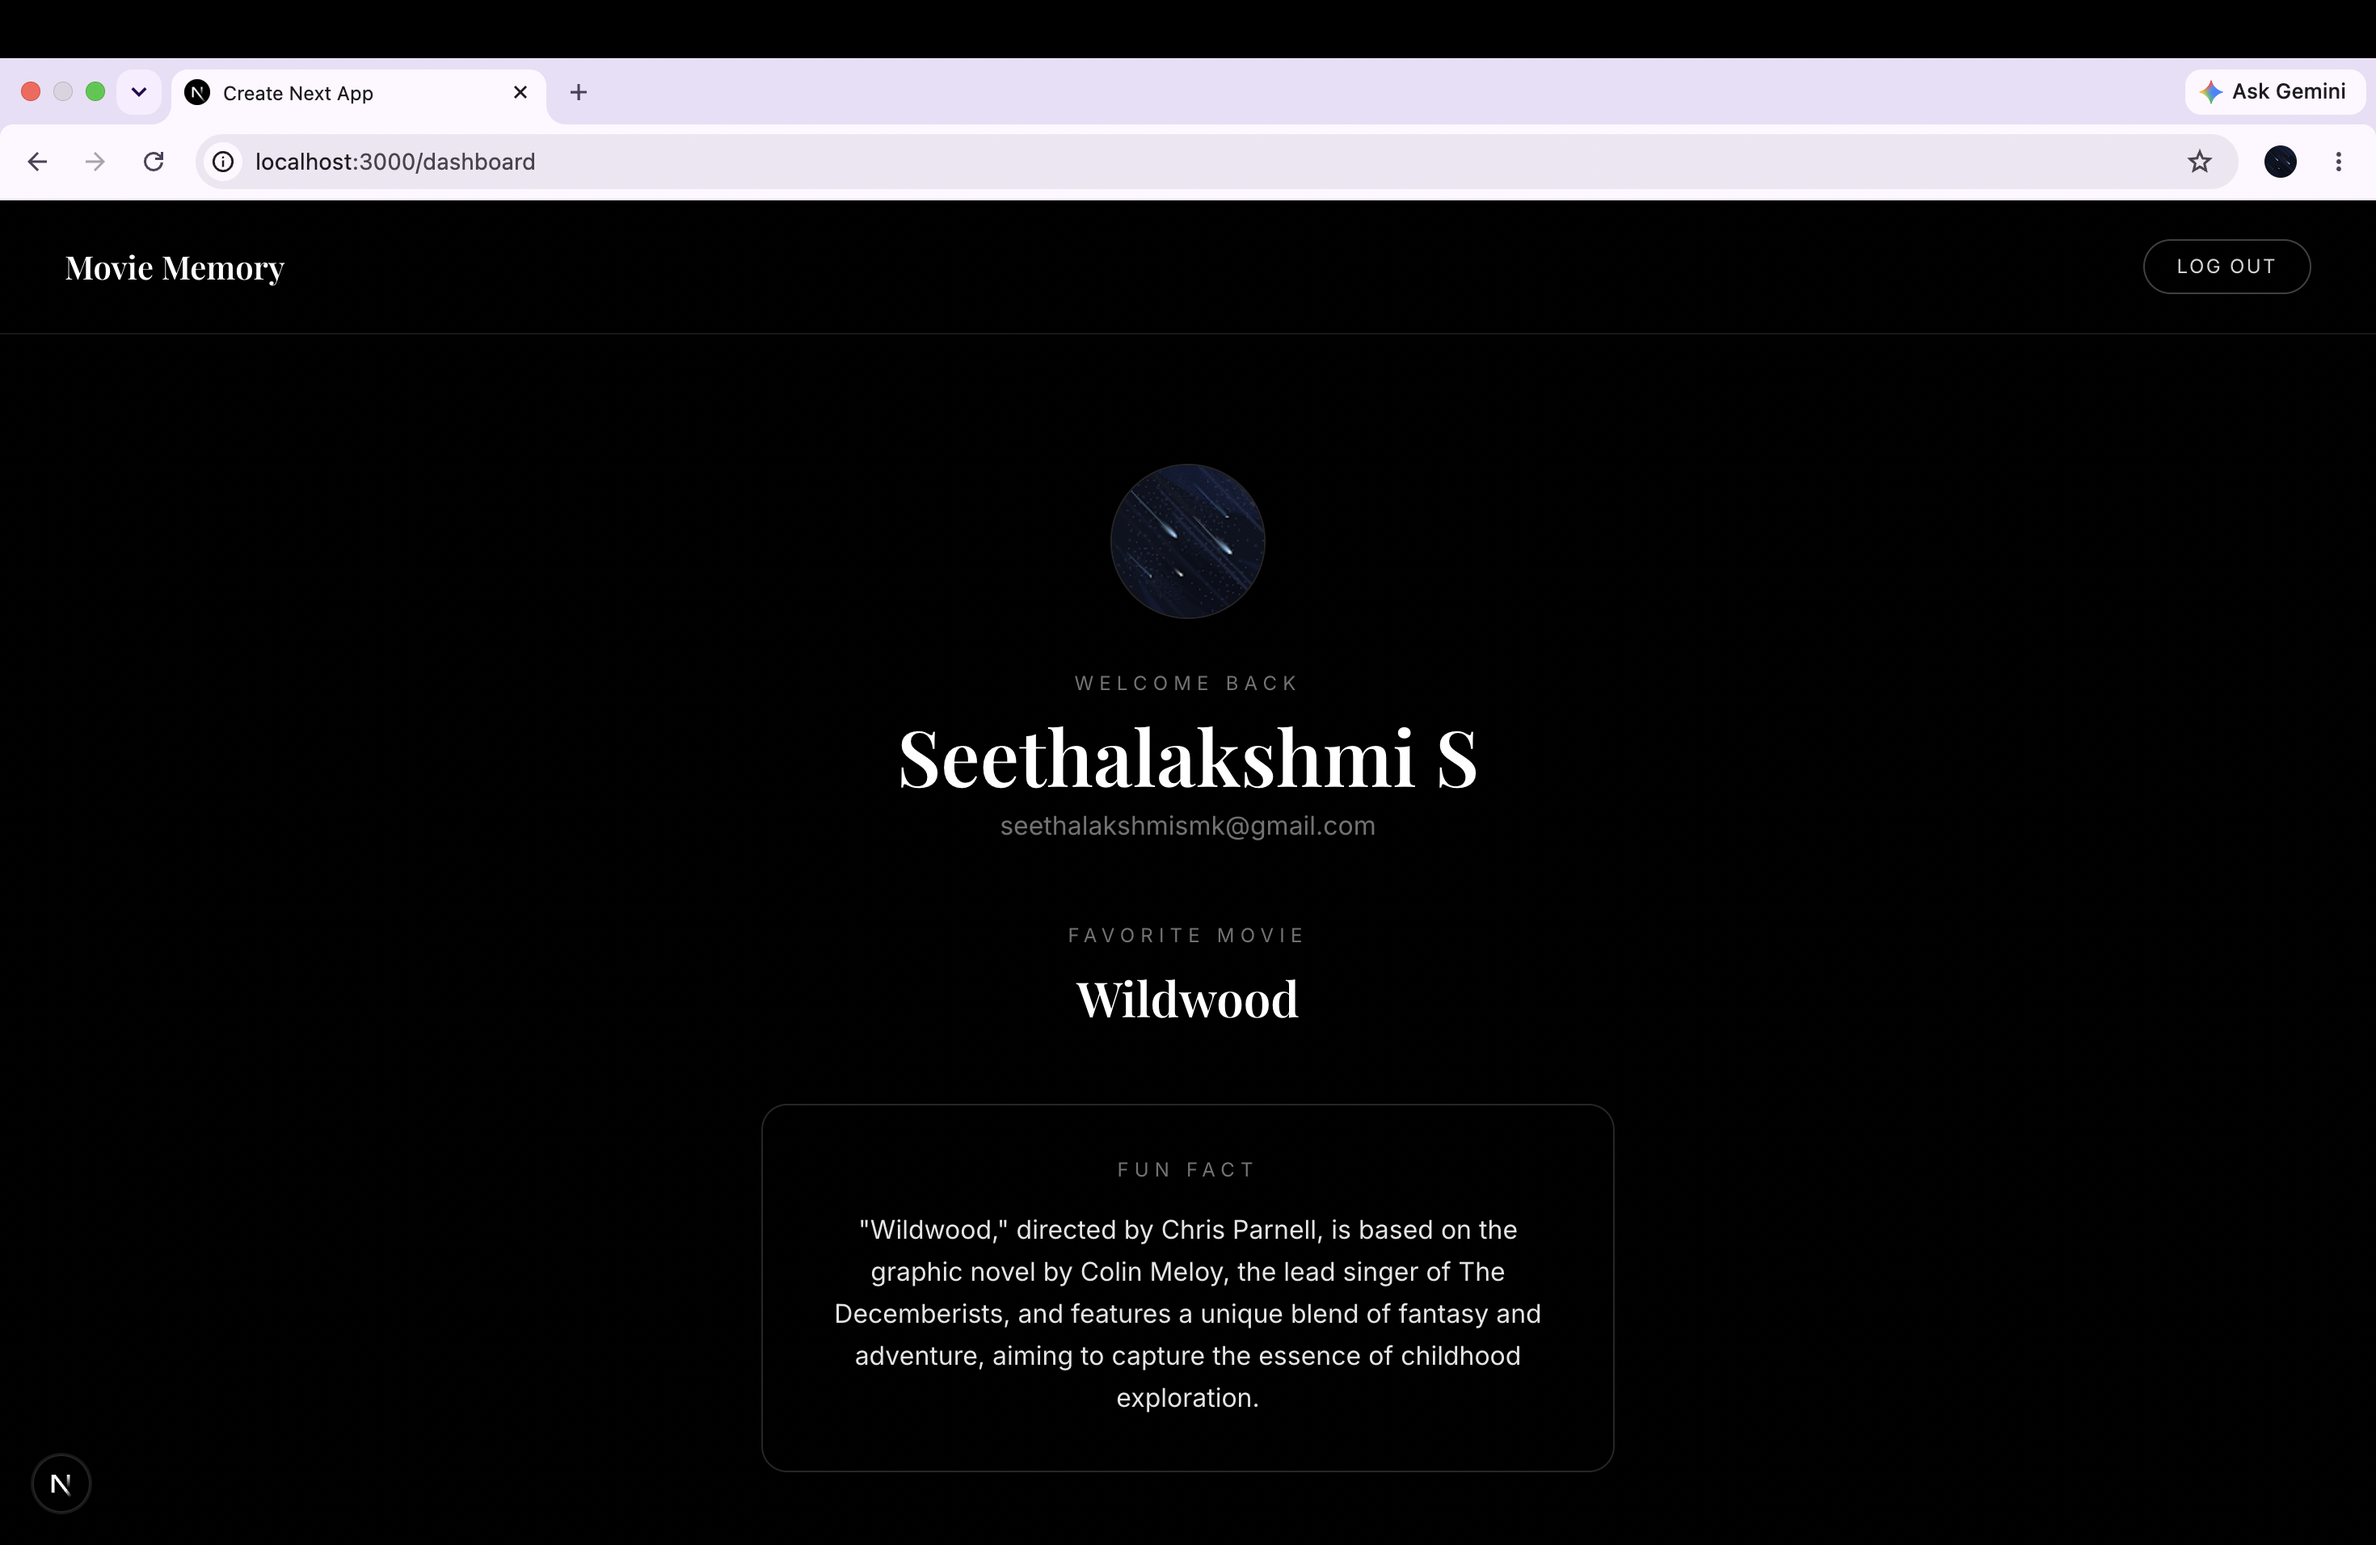
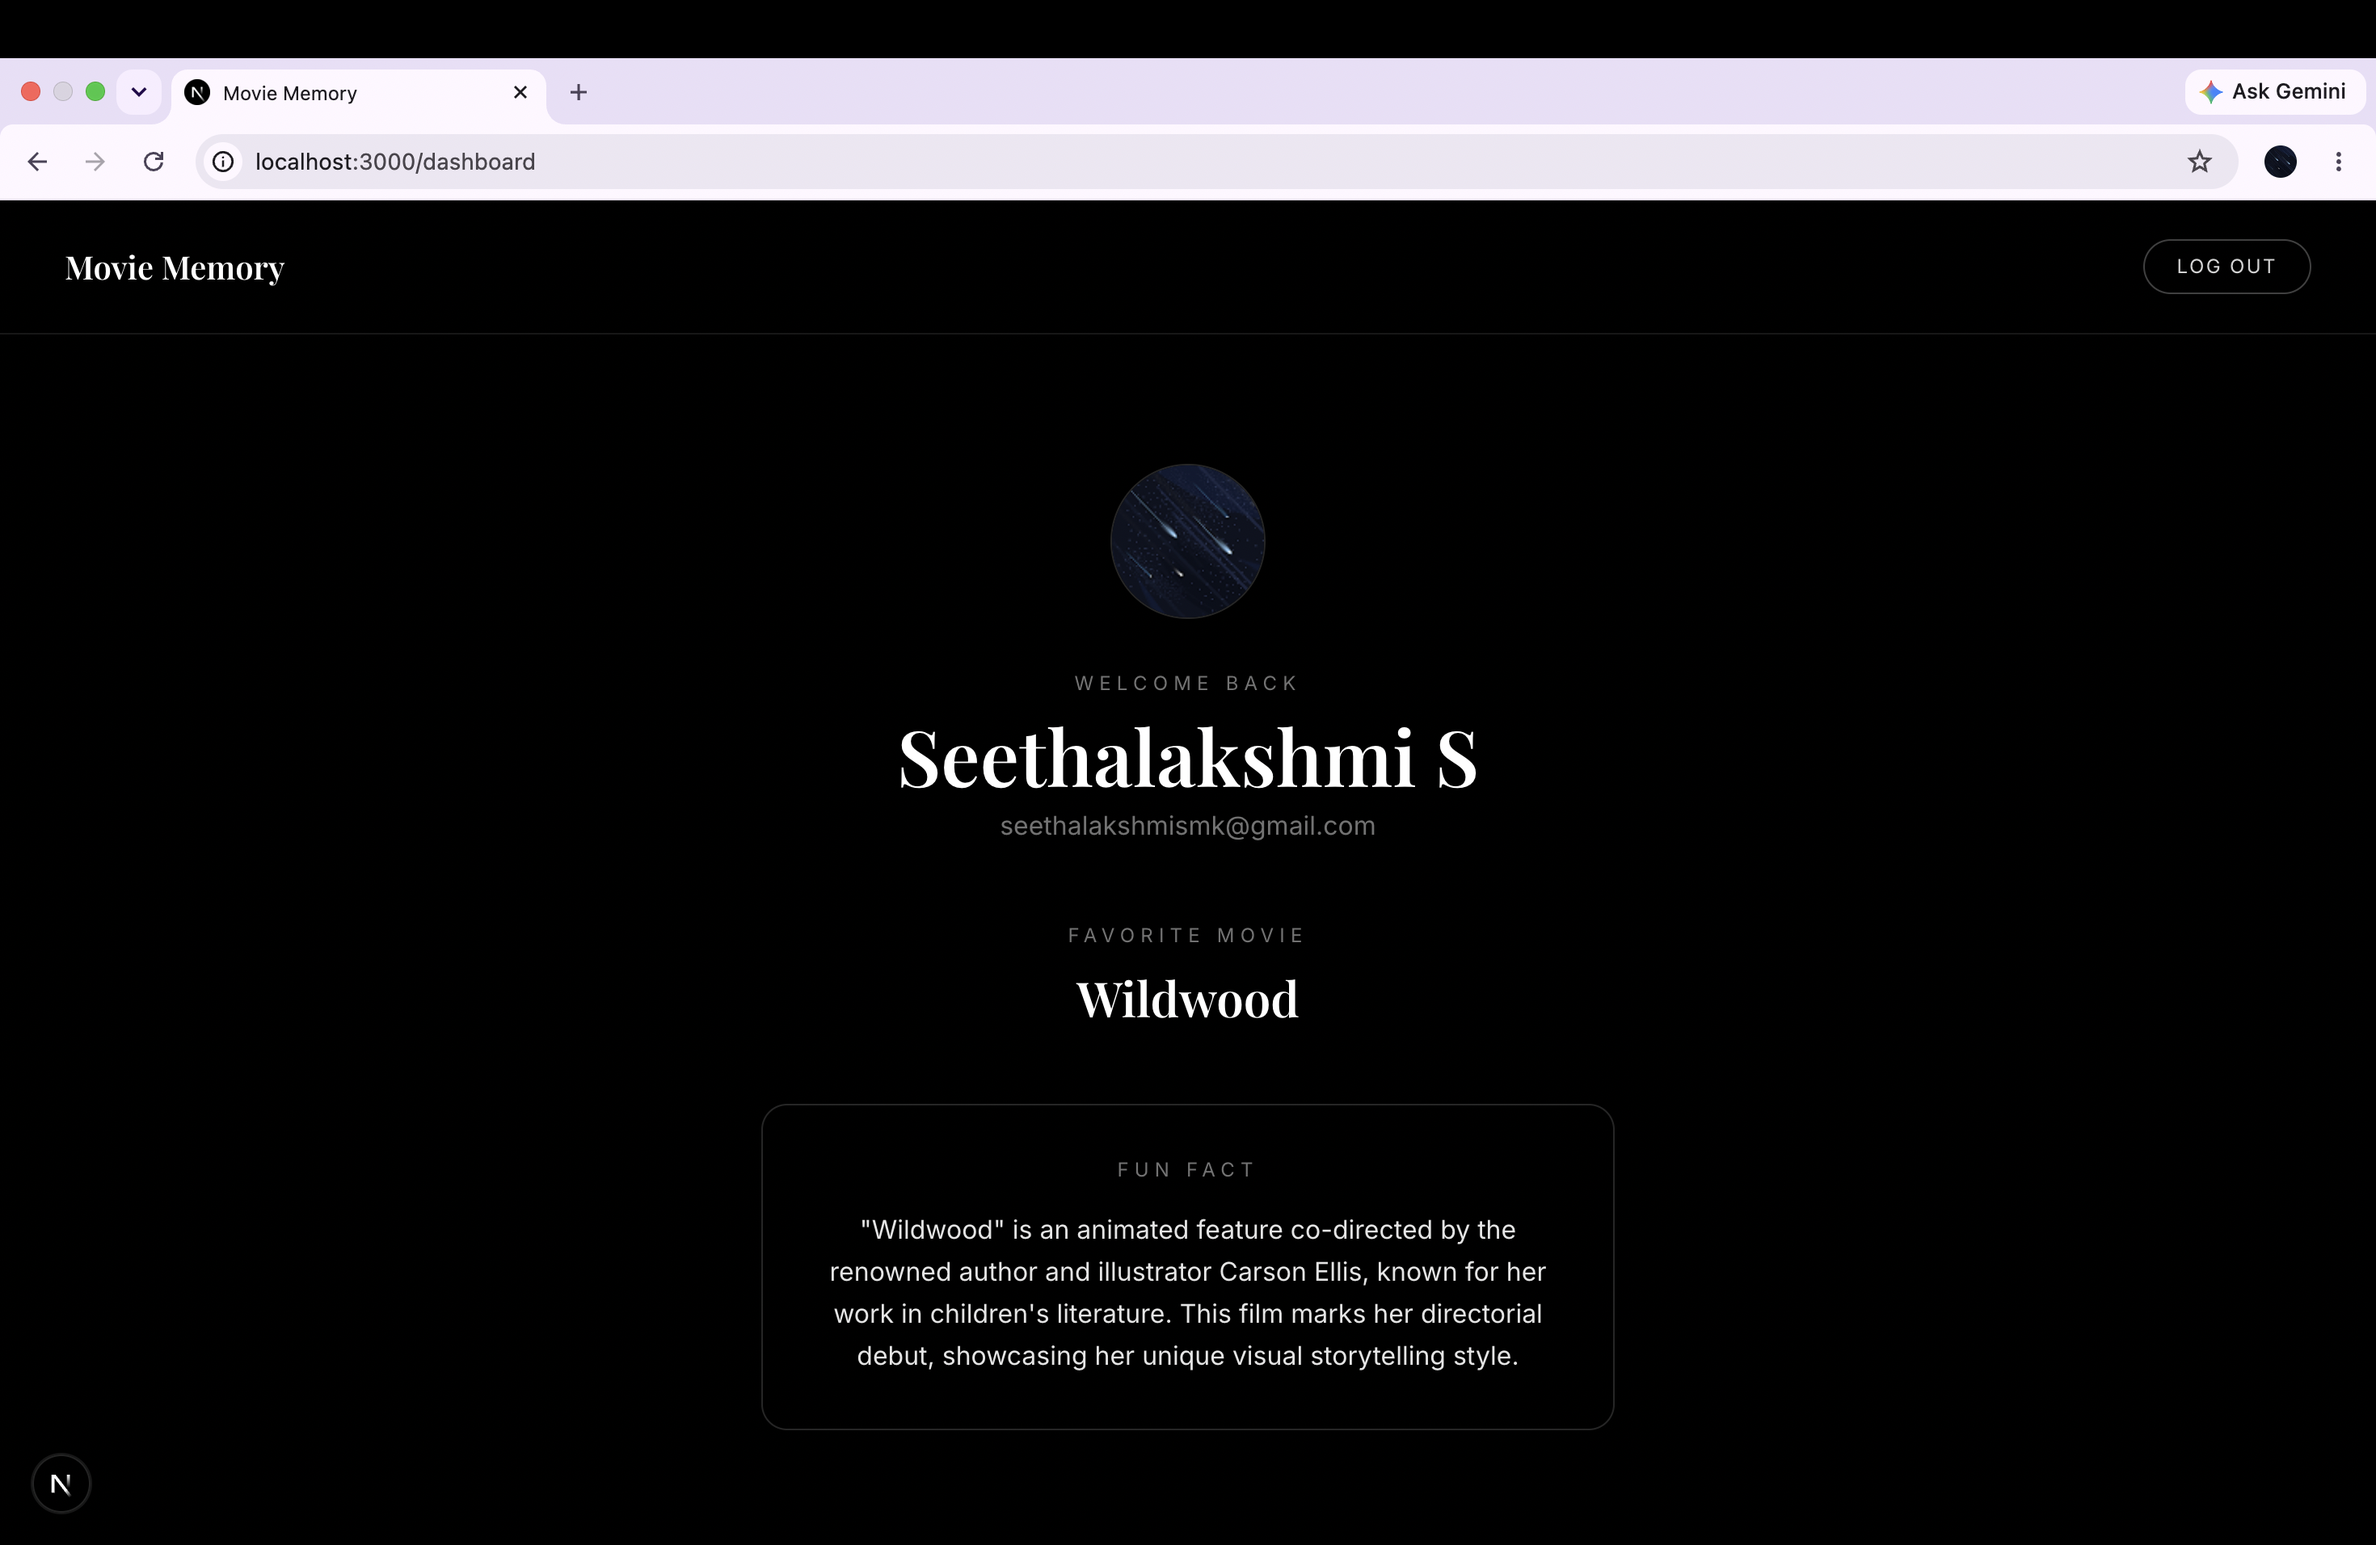
Update page title and screenshots

Changed region(s): [[0.3405, 0.7714, 0.65, 0.9257], [0.0929, 0.0309, 0.1238, 0.0617]]

diff --git a/src/app/layout.tsx b/src/app/layout.tsx
@@ -13,8 +13,8 @@ const geistMono = Geist_Mono({
 });
 
 export const metadata: Metadata = {
-  title: "Create Next App",
-  description: "Generated by create next app",
+  title: "Movie Memory",
+  description: "Your favorite movie. Fresh facts, every visit.",
 };
 
 export default function RootLayout({ children }: LayoutProps<"/">) {
